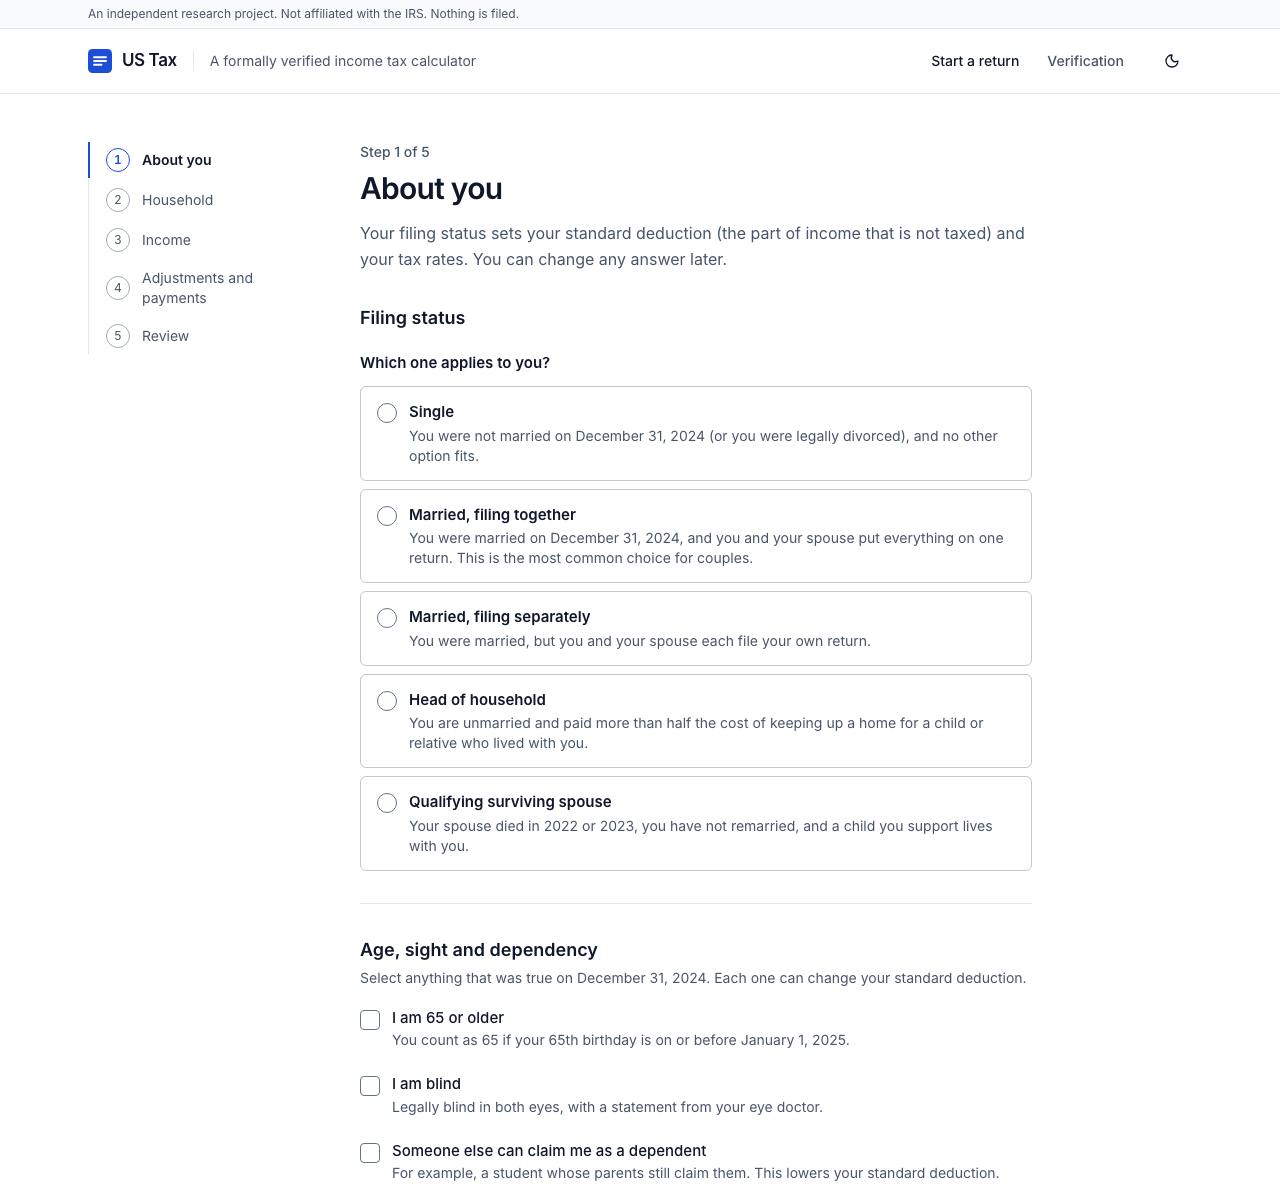
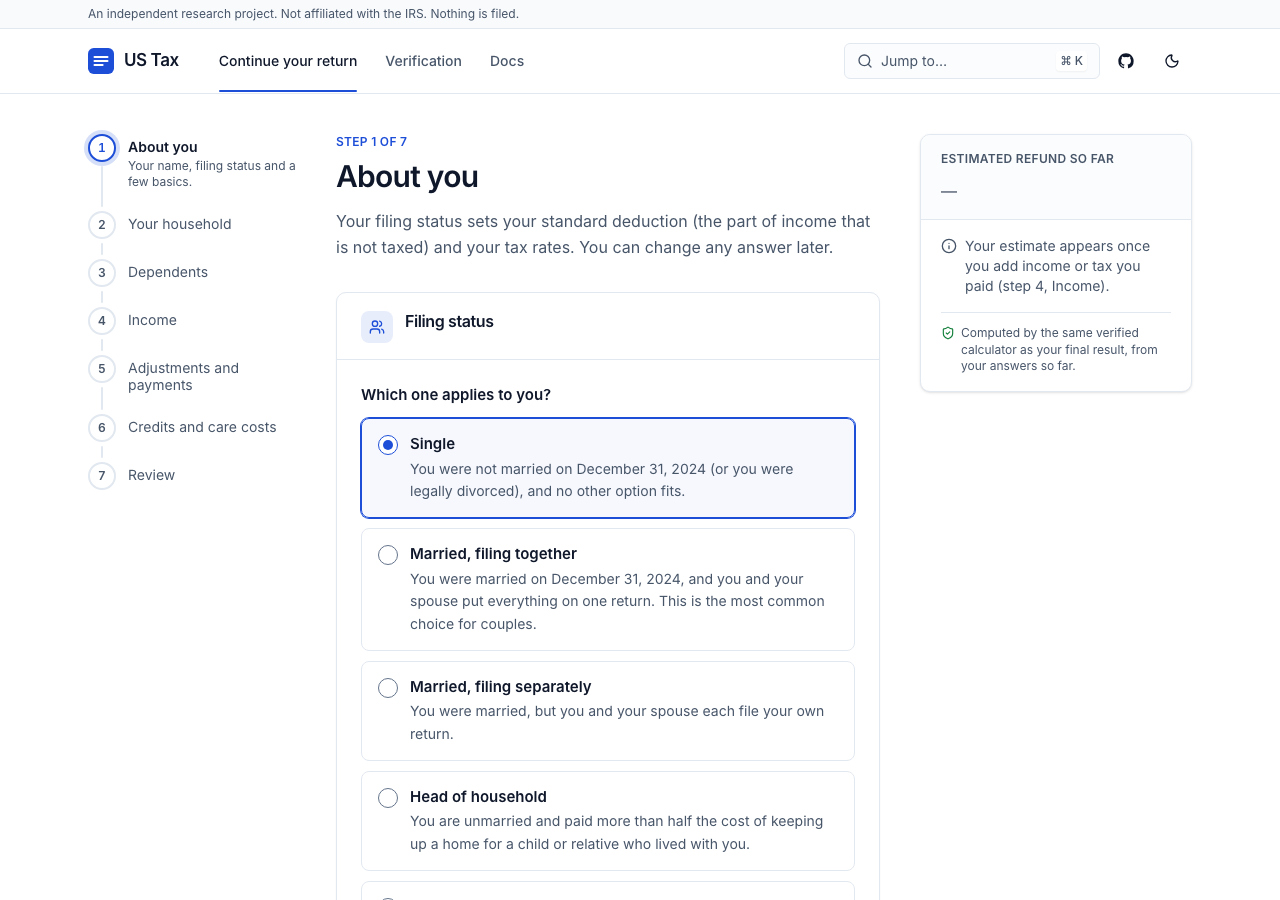
Screenshots: home, wizard, results, drawer, palette, trust tiers, mobile; polish-tour.gif

diff --git a/README.md b/README.md
@@ -17,6 +17,8 @@ The sections below say exactly which is which.
 | Home and verification status | Result with the Form 1040 table |
 | --- | --- |
 | ![US Tax home page: tagline, start button and verification status panel](docs/screenshots/home.png) | ![US Tax results: refund of $981.00, key figures and the Form 1040 line table](docs/screenshots/results-refund.png) |
+| **Wizard with the running estimate** | **Law & proof for line 15: the statute, the Catala rule, the Lean theorems** |
+| ![Income step: W-2 form, the W-2 box diagram, and the running estimate of a $981 refund](docs/screenshots/step-4-income.png) | ![Provenance drawer for line 15: law citations and the highlighted Catala rule](docs/screenshots/provenance-drawer.png) |
 
 More screenshots (every wizard step, amount owed, unsupported return, verification page, phone width, dark mode) are in [`docs/screenshots/`](docs/screenshots/).
 
